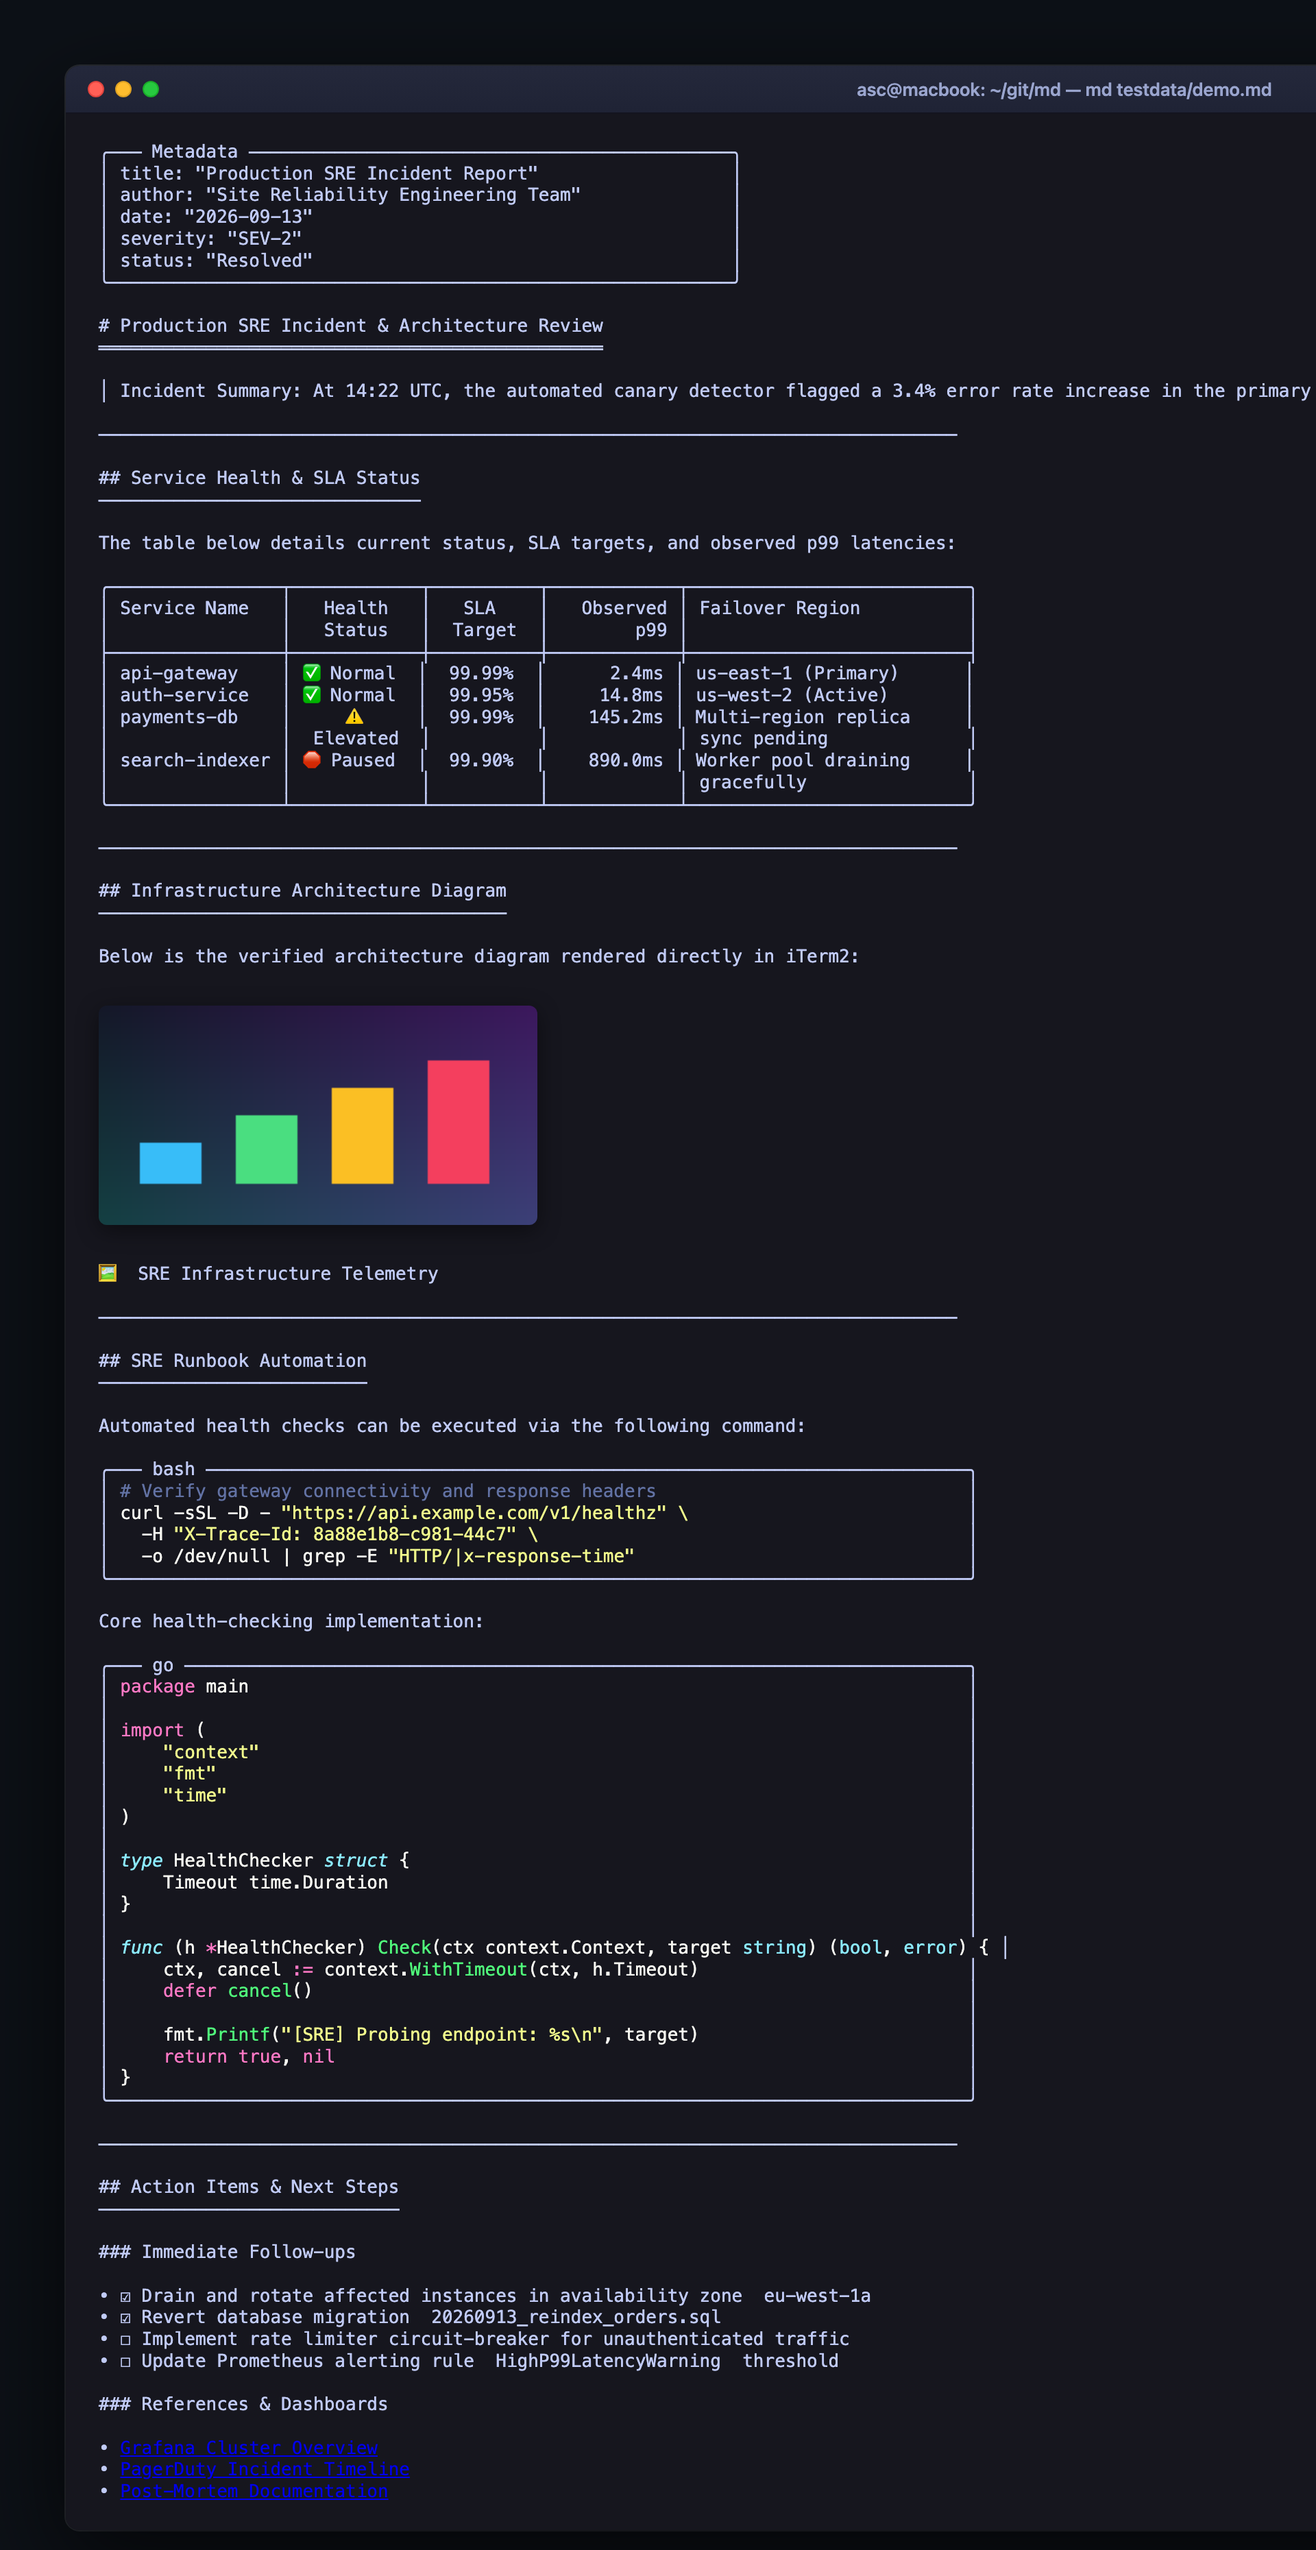
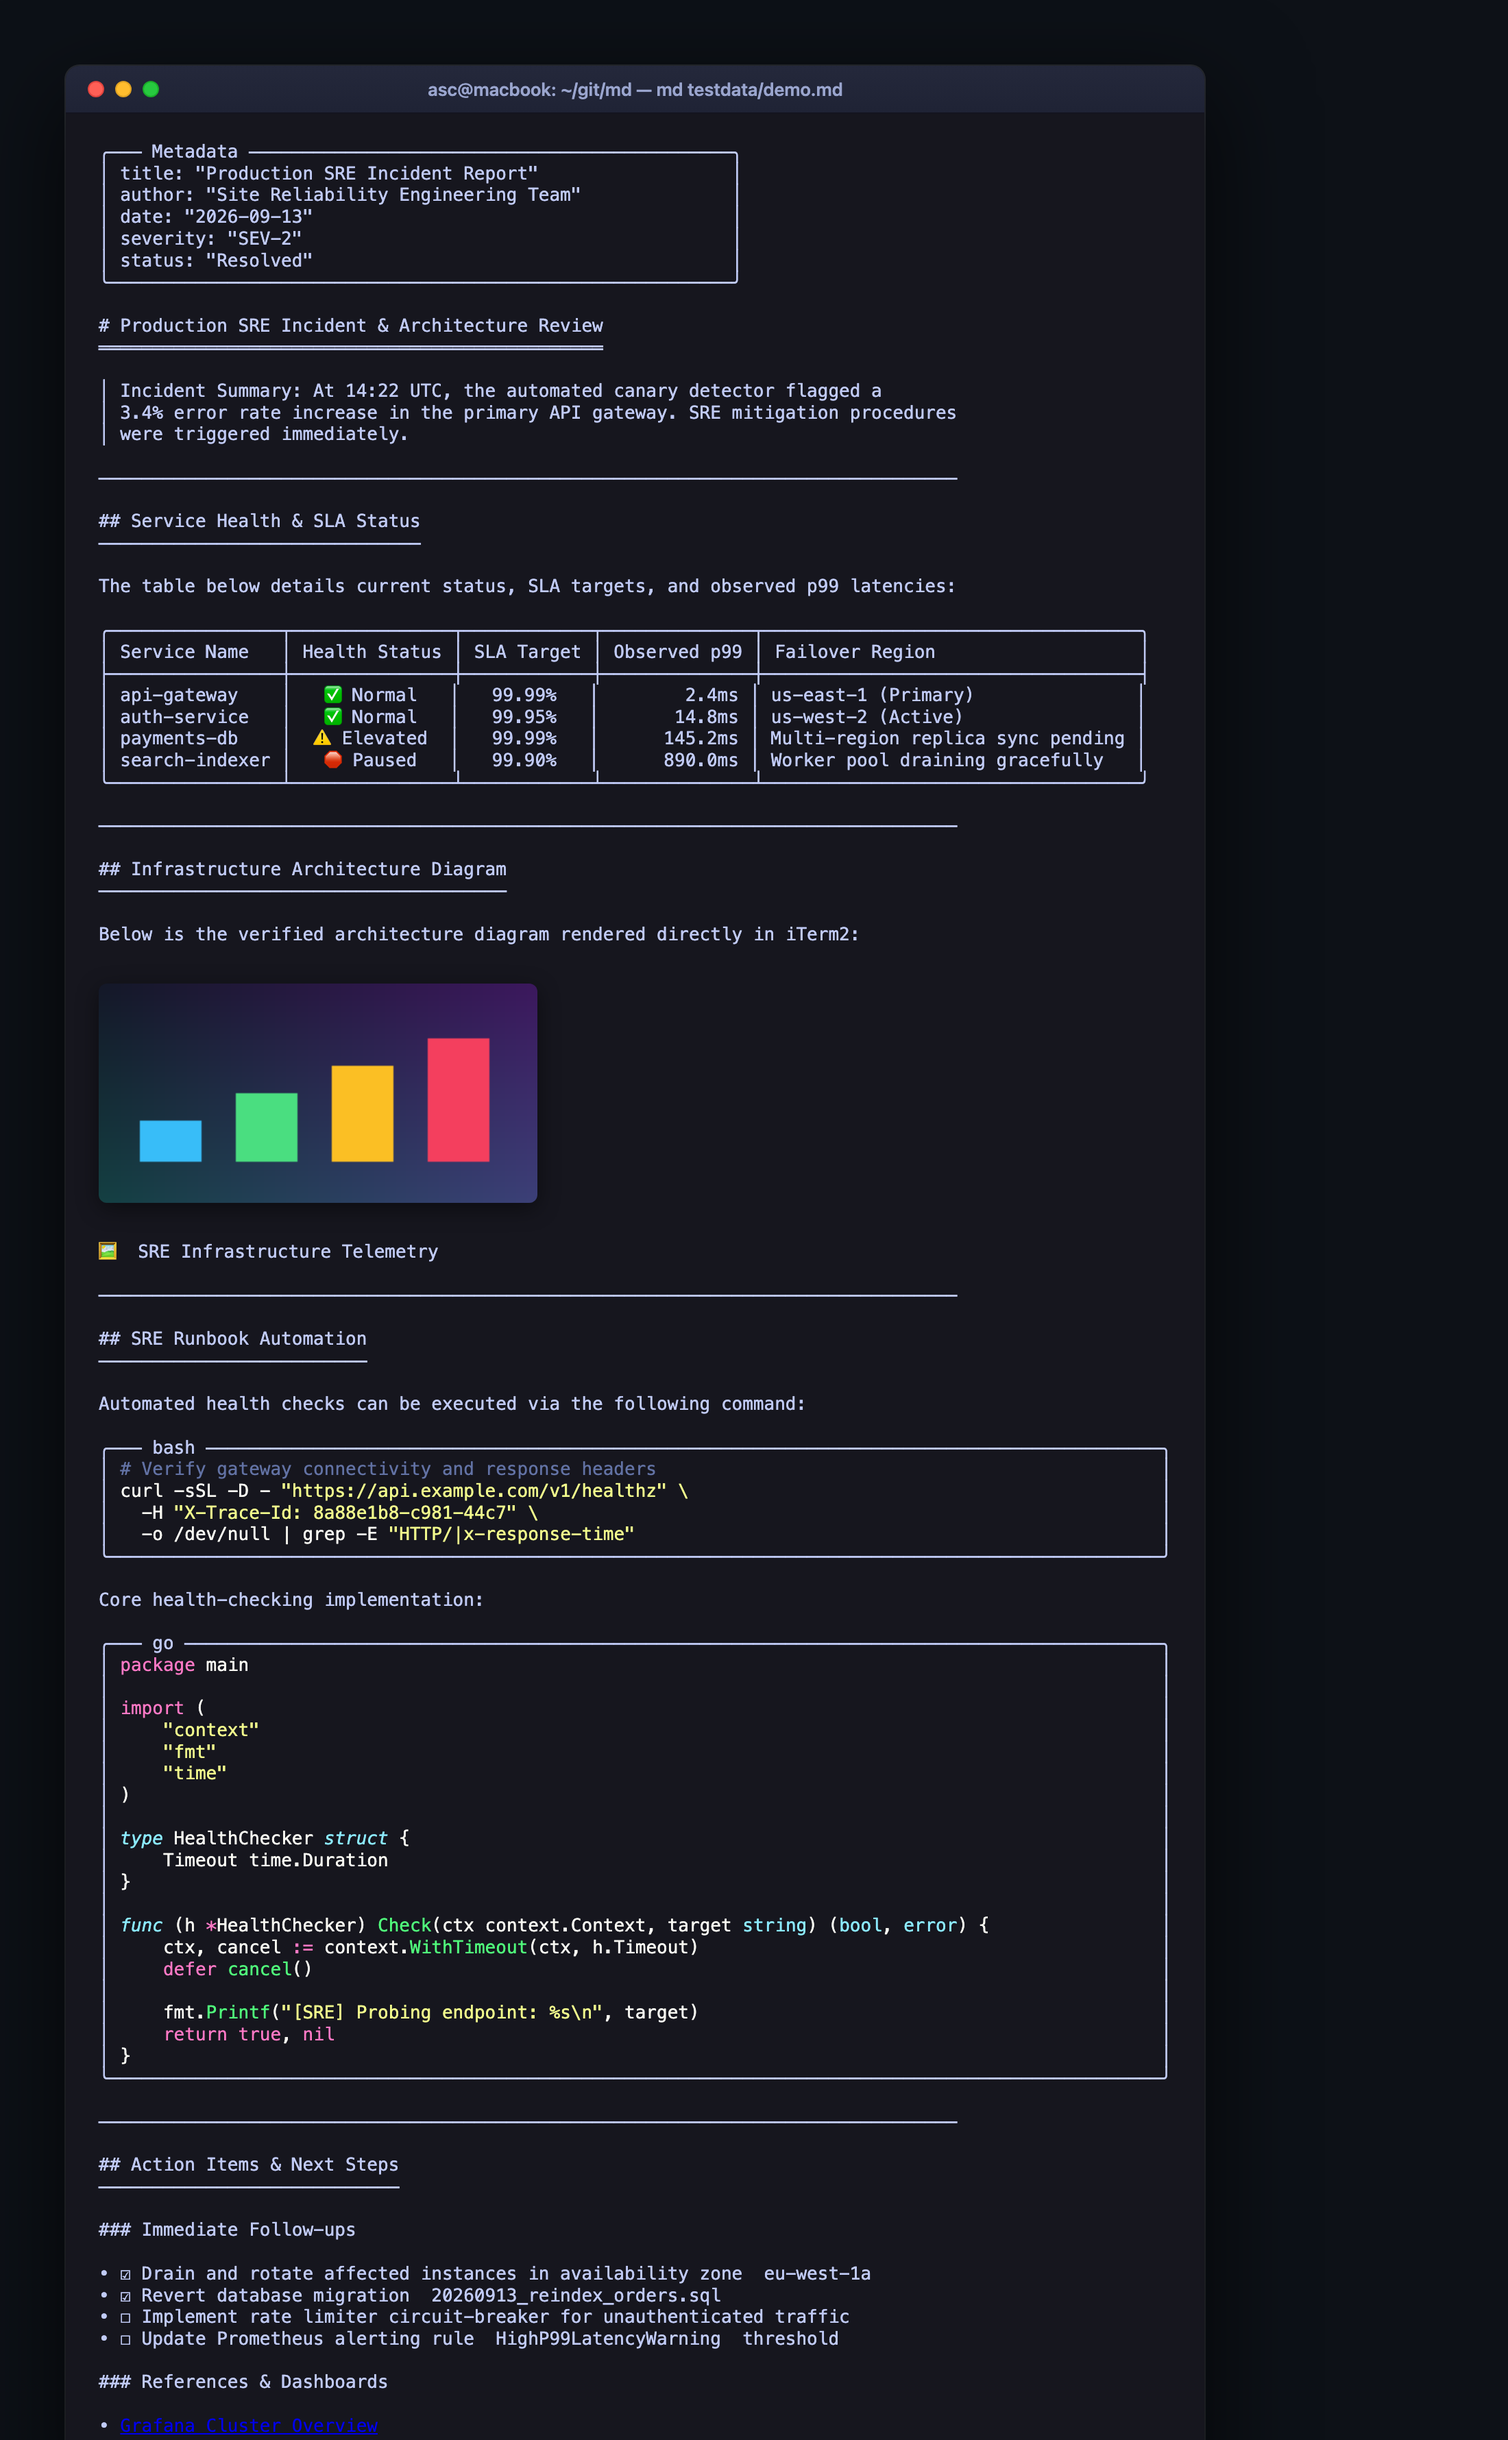
fix(docs): regenerate demo overview screenshot with clean table alignment

diff --git a/testdata/demo.md b/testdata/demo.md
@@ -8,7 +8,9 @@ status: "Resolved"
 
 # Production SRE Incident & Architecture Review
 
-> **Incident Summary**: At 14:22 UTC, the automated canary detector flagged a 3.4% error rate increase in the primary API gateway. SRE mitigation procedures were triggered immediately.
+> **Incident Summary**: At 14:22 UTC, the automated canary detector flagged a\
+> 3.4% error rate increase in the primary API gateway. SRE mitigation procedures\
+> were triggered immediately.
 
 ---
 
